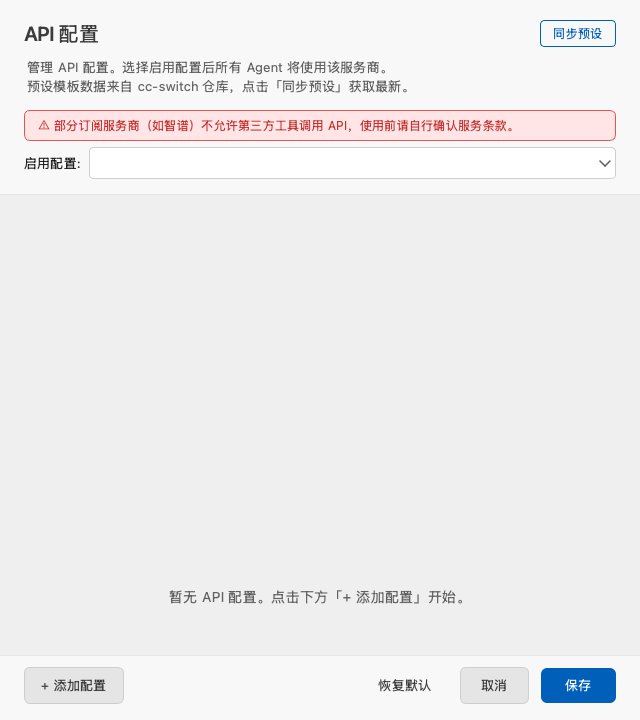
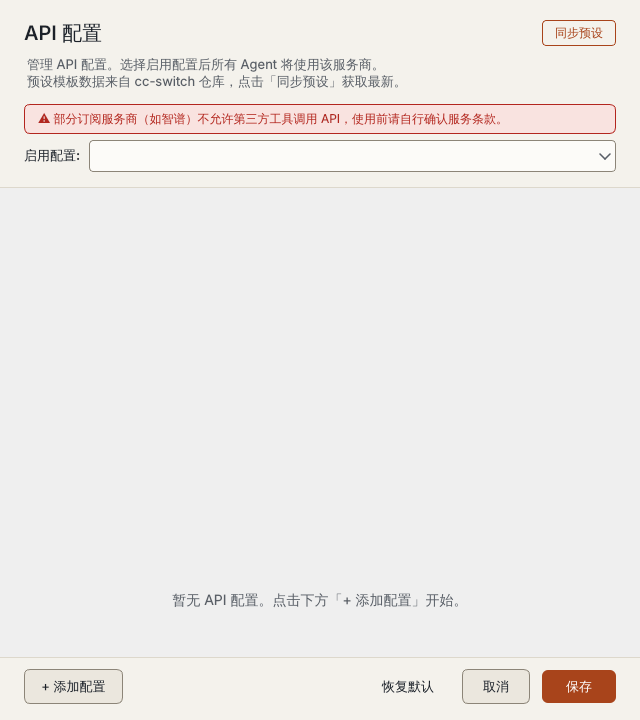
Retheme the desktop app with the design tokens
- manyselves/gui/theme.py: layout, text, action and status colours now come
  from the design tokens (paper/ink, accent primary action, running blue,
  done teal, failed red, self colours for agents). Syntax colours unchanged.
  Primary and danger buttons get readable label colours in dark mode.
- Package the module-M mark (light and dark) and show it in the launcher
  header and the welcome guide instead of the ◈ glyph.
- Theme colour tests assert the token values; screenshots regenerated with
  scripts/capture_brand_screenshots.py.

Claude-Session: https://claude.ai/code/session_01SFNZ4MQWbBdhSdxQsqPUNX

diff --git a/manyselves/gui/theme.py b/manyselves/gui/theme.py
@@ -1,7 +1,8 @@
 """Unified theme management for Manyselves GUI.
 
-Provides centralized color definitions for dark/light modes,
-following the Claude Code design language.
+Provides centralized color definitions for dark/light modes. Layout, text,
+action and status colours mirror the Manyselves design tokens (纸面 light /
+墨面 dark); syntax-highlighting colours stay on the VS Code Modern palettes.
 """
 
 from PyQt6.QtCore import Qt
@@ -35,33 +36,41 @@ def get_theme_colors() -> dict[str, str]:
 
     Returns:
         Dictionary of color name -> hex value.
-        Based on VSCode Dark Modern / Light Modern palettes.
+        Layout, text, action and status colours follow the Manyselves design tokens.
     """
     dark = is_dark_mode()
 
-    # === Base Colors ===
-    bg = "#1f1f1f" if dark else "#ffffff"
-    surface = "#181818" if dark else "#f8f8f8"
-    panel_bg = "#181818" if dark else "#f8f8f8"
-    titlebar_bg = "#181818" if dark else surface
+    # === Base Colors (Manyselves design tokens) ===
+    bg = "#1a1f26" if dark else "#fcfbf8"  # surface-raised
+    surface = "#13171c" if dark else "#f4f2ec"  # surface
+    sunken = "#0e1115" if dark else "#ebe7de"  # surface-sunken
+    panel_bg = surface
+    titlebar_bg = surface
     messages_bg = panel_bg
-    border = "#2b2b2b" if dark else "#e5e5e5"
-    fg = "#cccccc" if dark else "#3b3b3b"
-    muted = "#9d9d9d" if dark else "#616161"
+    border = "#2b323b" if dark else "#ddd8cc"  # line
+    border_strong = "#69727e" if dark else "#8c8578"  # line-strong
+    fg = "#ebe7df" if dark else "#1b2129"  # ink
+    muted = "#a5abb3" if dark else "#585e66"  # ink-muted
+    faint = "#868d96" if dark else "#767b82"  # ink-faint
 
-    # Blue system: only two keys should be consumed by UI code.
-    button_blue = "#0078d4" if dark else "#005fb8"
-    selection_blue = "#264f78" if dark else "#add6ff"
-    hover = "#2a2d2e" if dark else "#e8e8e8"
-    danger = "#f44747" if dark else "#d32f2f"
-    success = "#73c991" if dark else "#388a34"
-    input_bg = "#313131" if dark else "#ffffff"
-    input_border = "#3c3c3c" if dark else "#cecece"
-    input_fg = "#cccccc" if dark else "#3b3b3b"
+    # Key names keep their historical "blue" spelling: buttonBlue is the
+    # primary action (accent), selectionBlue the accent tint.
+    button_blue = "#e3804f" if dark else "#a8441b"  # accent
+    on_accent = "#1b120c" if dark else "#ffffff"
+    selection_blue = "#3a2419" if dark else "#f5e3d8"  # accent-tint
+    hover = border
+    danger = "#f08a80" if dark else "#b3261e"  # failed
+    on_danger = "#13171c" if dark else "#ffffff"
+    success = "#6cc3bf" if dark else "#1b6b6f"  # done
+    running = "#7fb0e6" if dark else "#245a96"
+    waiting = "#e0b25a" if dark else "#865400"
+    input_bg = bg
+    input_border = border_strong
+    input_fg = fg
     disabled_fg = muted
-    secondary_bg = "#313131" if dark else "#e5e5e5"
-    secondary_border = "#3c3c3c" if dark else "#cecece"
-    detail_card_bg = "#1f1f1f" if dark else "#ffffff"
+    secondary_bg = sunken
+    secondary_border = border_strong
+    detail_card_bg = bg
     detail_card_border = border
     detail_muted = muted
     detail_fg = fg
@@ -73,7 +82,7 @@ def get_theme_colors() -> dict[str, str]:
         "panel_bg": panel_bg,  # Agent panel background (darker than editor)
         "titlebar_bg": titlebar_bg,  # Custom window title bar background
         "messages_bg": messages_bg,  # Agent conversation area background
-        "card": "#252526" if dark else "#f8f8f8",  # Elevated cards
+        "card": bg,  # Elevated cards
         "border": border,
         "fg": fg,
         "muted": muted,
@@ -101,54 +110,54 @@ def get_theme_colors() -> dict[str, str]:
 
         # === Buttons ===
         "danger": danger,
-        "danger_hover": "#d32f2f" if dark else "#b71c1c",
+        "danger_hover": "#f4a39b" if dark else "#8e1d17",
 
         # === Scrollbar ===
-        "scrollbar": "#6b6b6b" if dark else "#c1c1c1",
-        "scrollbar_hover": "#8a8a8a" if dark else "#a8a8a8",
+        "scrollbar": border_strong,
+        "scrollbar_hover": faint,
 
         # === Chat/Agent Panel ===
-        "bubble_bg": "#2a2a2a" if dark else "#ffffff",
-        "bubble_hover": "#333333" if dark else "#ffffff",
+        "bubble_bg": sunken,
+        "bubble_hover": border if dark else sunken,
         # Neutral gray (R=G=B, no green/blue cast) for user-bubble and
         # context-chip borders — light enough to read as ash-gray, not white.
-        "gray_white": "#a6a6a6" if dark else "#a6a6a6",
-        "edit_bubble_bg": "#3c3c3c" if dark else "#ffffff",
-        "edit_bubble_border": "transparent" if dark else "#cecece",
-        "avatar_bg": "#3c3c3c" if dark else "#e0e0e0",
-        "avatar_fg": "#cccccc" if dark else "#616161",
+        "gray_white": border_strong,
+        "edit_bubble_bg": bg,
+        "edit_bubble_border": border_strong,
+        "avatar_bg": "#9aa4ae" if dark else "#55606b",  # self-6
+        "avatar_fg": "#13171c" if dark else "#ffffff",  # on-self
 
         # === Status Indicators ===
-        "status_tool": "#cca700" if dark else "#bf8900",
-        "status_running": button_blue,
+        "status_tool": waiting,
+        "status_running": running,
         "status_success": success,
         "status_error": danger,
-        "status_debug": "#b180d7" if dark else "#7b1fa2",
+        "status_debug": "#b896d6" if dark else "#6d4a86",  # self-5
         "status_idle": muted,
-        "timeline_dot": "#9ca3af" if dark else "#000000",
+        "timeline_dot": muted,
 
         # === File Tree ===
-        "tree_hover": "#2a2d2e" if dark else "#e8e8e8",
-        "tree_sel_bg": "#094771" if dark else "#e8e8e8",
-        "tree_sel_fg": "#ffffff" if dark else "#202020",
+        "tree_hover": hover,
+        "tree_sel_bg": selection_blue,
+        "tree_sel_fg": fg,
 
         # === Editor/Preview ===
         "editor_bg": bg,
         "editor_fg": fg,
-        "editor_margin": bg if dark else "#ffffff",
-        "editor_caret_fg": "#ffffff" if dark else "#005fb8",
-        "markdown_table_header_bg": "#252526" if dark else "#f8f8f8",
+        "editor_margin": bg,
+        "editor_caret_fg": button_blue,
+        "markdown_table_header_bg": surface,
 
         # === Tabs ===
-        "tab_active_bg": bg if dark else "#ffffff",
-        "tab_active_fg": "#ffffff" if dark else "#3b3b3b",
-        "tab_inactive_fg": "#9d9d9d" if dark else "#868686",
+        "tab_active_bg": bg,
+        "tab_active_fg": fg,
+        "tab_inactive_fg": muted,
 
         # === Context Menu ===
-        "context_bg": bg if dark else "#ffffff",
-        "context_border": "#454545" if dark else "#cecece",
-        "popup_fg": "#cccccc" if dark else "#3b3b3b",
-        "popup_hover": "#2a2d2e" if dark else "#f5f5f5",
+        "context_bg": bg,
+        "context_border": border,
+        "popup_fg": fg,
+        "popup_hover": hover,
 
         # === Tool Calls ===
         "tool_fg": fg,
@@ -157,29 +166,25 @@ def get_theme_colors() -> dict[str, str]:
         "detail_card_border": detail_card_border,
         "detail_muted": detail_muted,
         "detail_fg": detail_fg,
-        "detail_hover_fg": "#e2e8f0" if dark else fg,
+        "detail_hover_fg": fg,
 
         # === Message Controls ===
-        "message_expand_bg": "rgba(32, 33, 36, 0.92)" if dark else "rgba(245, 245, 245, 0.96)",
-        "message_expand_fg": "#f3f4f6" if dark else "#333333",
-        "message_expand_border": (
-            "rgba(255, 255, 255, 0.08)" if dark else "rgba(0, 0, 0, 0.10)"
-        ),
-        "message_expand_hover_bg": (
-            "rgba(48, 50, 56, 0.96)" if dark else "rgba(232, 232, 232, 0.98)"
-        ),
+        "message_expand_bg": bg,
+        "message_expand_fg": fg,
+        "message_expand_border": border,
+        "message_expand_hover_bg": hover,
 
         # === Icon Semantic Colors ===
-        "icon_default": "#cccccc" if dark else "#3b3b3b",
+        "icon_default": fg,
         "icon_run": success,
         "icon_preview": success,
-        "icon_context_eye": "#a6a6a6" if dark else muted,
+        "icon_context_eye": muted,
         "agent_main": button_blue,
         # Compatibility colors for historical task/message records.
-        "agent_data_analysis": "#73c991" if dark else "#388a34",
-        "agent_plotting": "#8e44ad" if dark else "#7b1fa2",
-        "agent_theory": "#e67e22" if dark else "#bf8900",
-        "agent_report": "#5dade2" if dark else "#267f99",
+        "agent_data_analysis": "#6dbba5" if dark else "#2a6e5e",  # self-3
+        "agent_plotting": "#b896d6" if dark else "#6d4a86",  # self-5
+        "agent_theory": "#d3ad5b" if dark else "#7a5a12",  # self-4
+        "agent_report": "#7fa9d9" if dark else "#2f5f8f",  # self-2
 
         # === Syntax Highlighting ===
         "syntax_keyword": "#C586C0" if dark else "#AF00DB",
@@ -224,45 +229,45 @@ def get_theme_colors() -> dict[str, str]:
         "tex_math": "#CE9178" if dark else "#A31515",
 
         # === Dialog/Config Specific ===
-        "activeFg": "#ffffff" if dark else "#202020",
+        "activeFg": fg,
         "checkFg": success,
 
         # === Input Variations ===
         "inputBg": input_bg,
         "inputBorder": input_border,
         "inputFg": input_fg,
-        "inputDisabledBg": "#1f1f1f" if dark else "#f3f3f3",
+        "inputDisabledBg": sunken,
         "inputDisabledFg": disabled_fg,
 
         # === Primary Button Variations ===
-        "primaryBtnFg": "#ffffff",
+        "primaryBtnFg": on_accent,
 
         # === Secondary Button ===
         "secondaryBtnBg": secondary_bg,
         "secondaryBtnBorder": secondary_border,
         "secondaryBtnFg": fg,
         "secondaryBtnHoverBg": hover,
-        "secondaryBtnHoverBorder": "#4c4c4c" if dark else "#b5b5b5",
+        "secondaryBtnHoverBorder": muted,
 
         # === Action Buttons ===
         "addBtnBorder": secondary_border,
         "addBtnFg": fg,
         "deleteFg": danger,
         "deleteHoverBg": danger,
-        "deleteHoverFg": "#ffffff",
+        "deleteHoverFg": on_danger,
         "resetFg": fg,
-        "resetHoverFg": "#ffffff" if dark else "#202020",
+        "resetHoverFg": fg,
 
         # === Test/Connection Buttons ===
-        "cancelHoverFg": "#ffffff" if dark else "#202020",
+        "cancelHoverFg": fg,
 
         # === Path/Link ===
         "pathFg": fg,
 
         # === Warning/Error ===
-        "warningBg": "#4a1d1d" if dark else "#ffe5e5",
-        "warningBorder": "#d94545" if dark else "#e55555",
-        "warningFg": "#ff6b6b" if dark else "#c53030",
+        "warningBg": "#3a1a18" if dark else "#f9e3e0",  # failed-tint
+        "warningBorder": danger,
+        "warningFg": danger,
         "successFg": success,
     }
 

diff --git a/tests/gui/test_theme_colors.py b/tests/gui/test_theme_colors.py
@@ -25,29 +25,33 @@ def test_gui_components_do_not_define_local_color_palettes():
     assert offenders == []
 
 
-def test_dark_theme_editor_palette_matches_vscode_modern(monkeypatch):
+def test_dark_theme_palette_matches_design_tokens(monkeypatch):
     monkeypatch.setattr(theme, "is_dark_mode", lambda: True)
 
     colors = theme.get_theme_colors()
 
-    assert colors["editor_bg"] == "#1f1f1f"
-    assert colors["editor_fg"] == "#cccccc"
-    assert colors["editor_margin"] == "#1f1f1f"
-    assert colors["input_bg"] == "#313131"
-    assert colors["input_border"] == "#3c3c3c"
-    assert colors["tab_active_bg"] == "#1f1f1f"
-    assert colors["status_success"] == "#73c991"
+    assert colors["editor_bg"] == "#1a1f26"
+    assert colors["editor_fg"] == "#ebe7df"
+    assert colors["editor_margin"] == "#1a1f26"
+    assert colors["input_bg"] == "#1a1f26"
+    assert colors["input_border"] == "#69727e"
+    assert colors["tab_active_bg"] == "#1a1f26"
+    assert colors["status_success"] == "#6cc3bf"
+    assert colors["buttonBlue"] == "#e3804f"
+    assert colors["primaryBtnFg"] == "#1b120c"
 
 
-def test_light_theme_editor_palette_matches_vscode_modern(monkeypatch):
+def test_light_theme_palette_matches_design_tokens(monkeypatch):
     monkeypatch.setattr(theme, "is_dark_mode", lambda: False)
 
     colors = theme.get_theme_colors()
 
-    assert colors["editor_bg"] == "#ffffff"
-    assert colors["editor_fg"] == "#3b3b3b"
-    assert colors["editor_margin"] == "#ffffff"
-    assert colors["input_bg"] == "#ffffff"
-    assert colors["input_border"] == "#cecece"
-    assert colors["tab_active_bg"] == "#ffffff"
-    assert colors["status_success"] == "#388a34"
+    assert colors["editor_bg"] == "#fcfbf8"
+    assert colors["editor_fg"] == "#1b2129"
+    assert colors["editor_margin"] == "#fcfbf8"
+    assert colors["input_bg"] == "#fcfbf8"
+    assert colors["input_border"] == "#8c8578"
+    assert colors["tab_active_bg"] == "#fcfbf8"
+    assert colors["status_success"] == "#1b6b6f"
+    assert colors["buttonBlue"] == "#a8441b"
+    assert colors["primaryBtnFg"] == "#ffffff"

diff --git a/manyselves/gui/project_dialog.py b/manyselves/gui/project_dialog.py
@@ -25,6 +25,7 @@ from ..core.project_structure import (
 )
 from ..core.recent_projects import RecentProjects
 from .dialogs import critical_box, question_box
+from .icons import brand_mark_pixmap
 from .theme import get_theme_colors
 from .widgets.ui_utils import (
     filled_button_qss,
@@ -130,9 +131,18 @@ class ProjectDialog(QDialog):
         header_layout.setContentsMargins(40, 36, 40, 28)
         header_layout.setSpacing(6)
 
+        brand_row = QHBoxLayout()
+        brand_row.setContentsMargins(0, 0, 0, 0)
+        brand_row.setSpacing(12)
+        mark = QLabel()
+        mark.setAccessibleName(PRODUCT_NAME)
+        mark.setPixmap(brand_mark_pixmap(30, mark.devicePixelRatioF()))
+        brand_row.addWidget(mark)
         title = QLabel(PRODUCT_NAME)
         title.setObjectName("title")
-        header_layout.addWidget(title)
+        brand_row.addWidget(title)
+        brand_row.addStretch(1)
+        header_layout.addLayout(brand_row)
 
         subtitle = QLabel(
             f"{DESCRIPTOR_ZH}。\n"

diff --git a/manyselves/gui/icons.py b/manyselves/gui/icons.py
@@ -4,7 +4,8 @@ from PyQt6.QtCore import QByteArray, Qt
 from PyQt6.QtGui import QIcon, QPainter, QPixmap
 from PyQt6.QtSvg import QSvgRenderer
 
-from .theme import get_theme_colors
+from ..branding import MARK_ON_DARK_PATH, MARK_PATH
+from .theme import get_theme_colors, is_dark_mode
 
 # Tabler Icons SVG data (24x24, stroke-width 1.5)
 _SVG_ICONS: dict[str, str] = {
@@ -81,3 +82,14 @@ def get_agent_icon(agent_type: str, color: str | None = None, size: int = 24) ->
     return _ICON_CACHE[cache_key]
 
 
+def brand_mark_pixmap(size: int, device_pixel_ratio: float = 1.0) -> QPixmap:
+    """The module-M mark sized for a label, in the light or dark variant."""
+    mark = QPixmap(str(MARK_ON_DARK_PATH if is_dark_mode() else MARK_PATH))
+    if mark.isNull():
+        return mark
+    side = int(size * device_pixel_ratio)
+    mark = mark.scaled(
+        side, side, Qt.AspectRatioMode.KeepAspectRatio, Qt.TransformationMode.SmoothTransformation
+    )
+    mark.setDevicePixelRatio(device_pixel_ratio)
+    return mark

diff --git a/manyselves/gui/onboarding.py b/manyselves/gui/onboarding.py
@@ -22,6 +22,7 @@ from PyQt6.QtWidgets import (
 
 from ..branding import DESCRIPTOR_ZH, PRODUCT_NAME, TAGLINE
 from ..core.user_settings import UserSettings
+from .icons import brand_mark_pixmap
 from .theme import get_theme_colors
 from .widgets.ui_utils import filled_button_qss, ghost_button_qss
 
@@ -202,8 +203,9 @@ class PreProjectGuide(QDialog):
         content_layout.setSpacing(12)
 
         # Logo
-        logo = QLabel("◈")
-        logo.setStyleSheet("font-size: 48px;")
+        logo = QLabel()
+        logo.setAccessibleName(PRODUCT_NAME)
+        logo.setPixmap(brand_mark_pixmap(48, logo.devicePixelRatioF()))
         content_layout.addWidget(logo)
 
         # Title

diff --git a/manyselves/branding.py b/manyselves/branding.py
@@ -6,4 +6,8 @@ PRODUCT_NAME = "Manyselves"
 TAGLINE = "One runtime. Many selves."
 DESCRIPTOR_EN = "A file-defined multi-agent runtime with durable workflows and reconstructible execution."
 DESCRIPTOR_ZH = "由文档定义 Agent 团队的本地工作空间"
-APP_ICON_PATH = Path(__file__).resolve().parent / "resources" / "icon.png"
+_RESOURCES = Path(__file__).resolve().parent / "resources"
+APP_ICON_PATH = _RESOURCES / "icon.png"
+# The module-M mark without a background, for light and dark surfaces.
+MARK_PATH = _RESOURCES / "mark.png"
+MARK_ON_DARK_PATH = _RESOURCES / "mark-on-dark.png"
